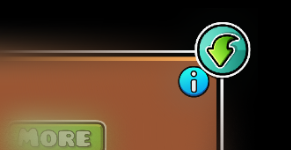
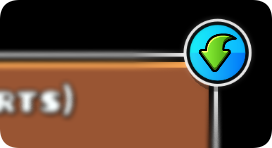
h

diff --git a/src/main.cpp b/src/main.cpp
@@ -1,7 +1,6 @@
 
 // oh no i just realised that this mod arleady exists :sob: (hopefully its for 2.207)
 
-#include "Geode/utils/file.hpp"
 #include <Geode/Geode.hpp>
 using namespace geode::prelude;
 
@@ -19,7 +18,7 @@ class $modify(SECustomSongWidget, CustomSongWidget) {
 	void showErrPopup(const char * err) {
 		FLAlertLayer::create(
 			"Song Export",
-			"An error occured while exporting a song: " + fmt::to_string(err),
+			"An error occured while exporting a song: " + std::string(err),
 			"OK"
 		)->show();
 	}
@@ -108,10 +107,9 @@ class $modify(SECustomSongWidget, CustomSongWidget) {
 					return;
 				}
 				auto trg_path_uw = std::move(trg_path).value(); 
-				//log::info("Copied file from {} to {}", fname, trg_path_str);
 
-				auto fdata = utils::file::readBinary(fname_as_path);
-				if (fdata.isErr()) {
+				auto fdata = file::readBinary(fname_as_path); // was using filesystem::copy earlier, 
+				if (fdata.isErr()) {                                                          // until i realize that it not works on android for some reason
 					log::error("error while reading - {}", fdata.unwrapErr());
 					showErrPopup(fdata.unwrapErr().c_str());
 					return;
@@ -125,7 +123,6 @@ class $modify(SECustomSongWidget, CustomSongWidget) {
 				}
 				log::info("Copied file from {} to {}", fname, trg_path_uw);
 				
-				log::debug("here before flalertlayer");
 				FLAlertLayer::create(
 					"Song Export",
 					"Song Was Exported!",
@@ -143,7 +140,8 @@ class $modify(SECustomSongWidget, CustomSongWidget) {
 		expMenu->setID("song-export-menu"_spr);
 		//log::info("unk bool ={}; unkINT={}", unkBool, unk);
 
-		auto expBtnSpr = CCSprite::create("export-btn.png"_spr);
+		//auto expBtnSpr = CCSprite::create("export-btn.png"_spr);
+		auto expBtnSpr = CircleButtonSprite::createWithSpriteFrameName("GJ_downloadsIcon_001.png", 0.8, geode::CircleBaseColor::Blue, geode::CircleBaseSize::Tiny);
 		auto expBtn = CCMenuItemSpriteExtra::create(expBtnSpr, this, menu_selector(SECustomSongWidget::exportSong));
 
 		expBtn->setID("song-export-btn");
